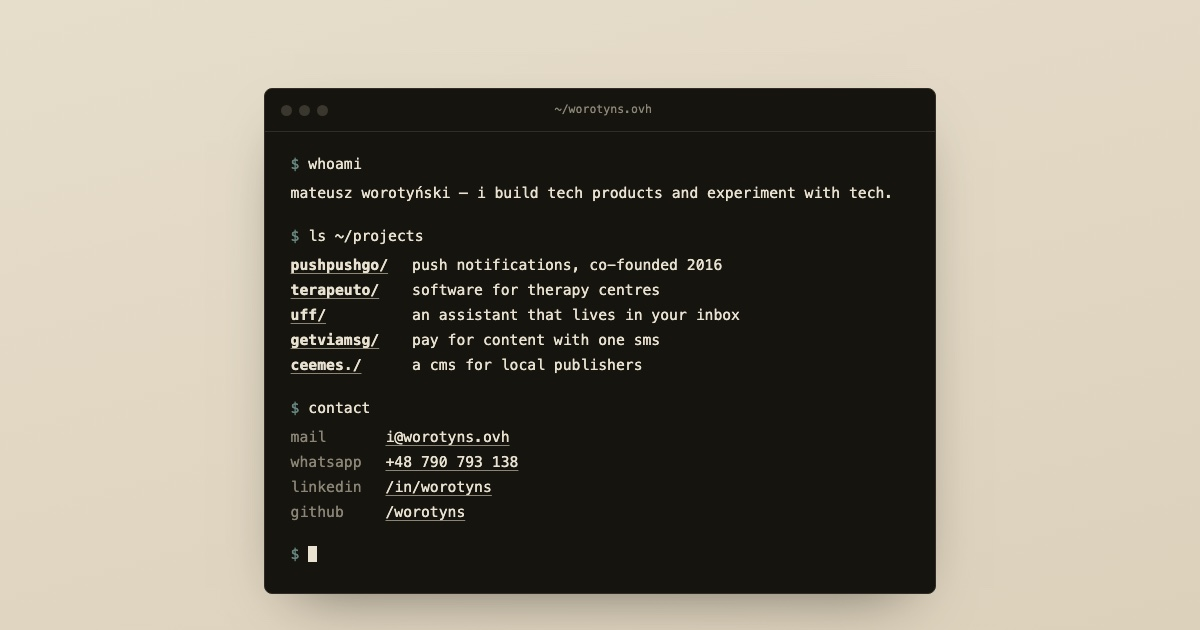
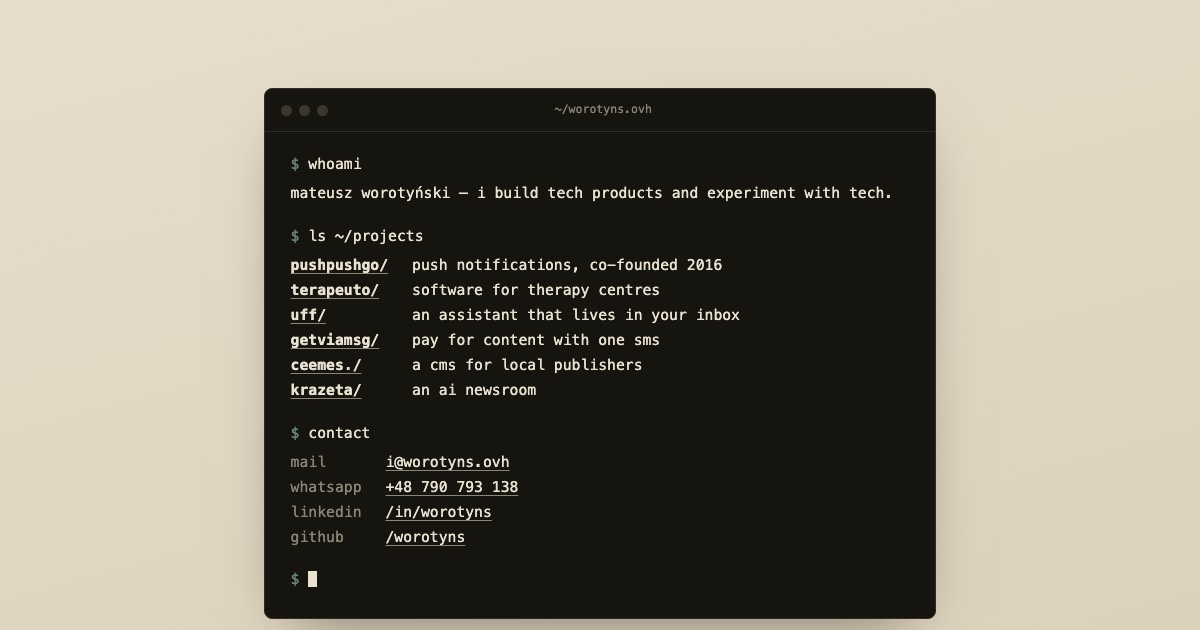
feat(site): krazeta joins the projects

Changed region(s): [[0.2158, 0.8444, 0.8017, 1.0], [0.2467, 0.6032, 0.4317, 0.8746], [0.3392, 0.6032, 0.4625, 0.6333]]

diff --git a/index.html b/index.html
@@ -4,7 +4,7 @@
   <meta charset="UTF-8">
   <meta name="viewport" content="width=device-width, initial-scale=1.0">
   <title>Mateusz Worotyński</title>
-  <meta name="description" content="Mateusz Worotyński — I build tech products and experiment with tech. PushPushGo, Terapeuto, uff.email, GetViaMsg, ceemes.">
+  <meta name="description" content="Mateusz Worotyński — I build tech products and experiment with tech. PushPushGo, Terapeuto, uff.email, GetViaMsg, ceemes., Krazeta.">
   <meta name="theme-color" content="#15140f">
   <link rel="canonical" href="https://worotyns.ovh/">
 
@@ -12,7 +12,7 @@
   <meta property="og:title" content="Mateusz Worotyński">
   <meta property="og:description" content="I build tech products and experiment with tech.">
   <meta property="og:url" content="https://worotyns.ovh/">
-  <meta property="og:image" content="https://worotyns.ovh/ogimage.jpg?v=eec0d796">
+  <meta property="og:image" content="https://worotyns.ovh/ogimage.jpg?v=459c8912">
   <meta name="twitter:card" content="summary_large_image">
 
   <link rel="apple-touch-icon" sizes="180x180" href="/apple-touch-icon.png">
@@ -39,6 +39,7 @@
       <dt><a href="https://uff.email" rel="noopener" target="_blank">uff/</a></dt><dd>an assistant that lives in your inbox</dd>
       <dt><a href="https://getviamsg.wdft.ovh" rel="noopener" target="_blank">getviamsg/</a></dt><dd>pay for content with one sms</dd>
       <dt><a href="https://ceemes.eu" rel="noopener" target="_blank">ceemes./</a></dt><dd>a cms for local publishers</dd>
+      <dt><a href="https://krazeta.pl" rel="noopener" target="_blank">krazeta/</a></dt><dd>an ai newsroom</dd>
     </dl>
 
     <p class="cmd">contact</p>
